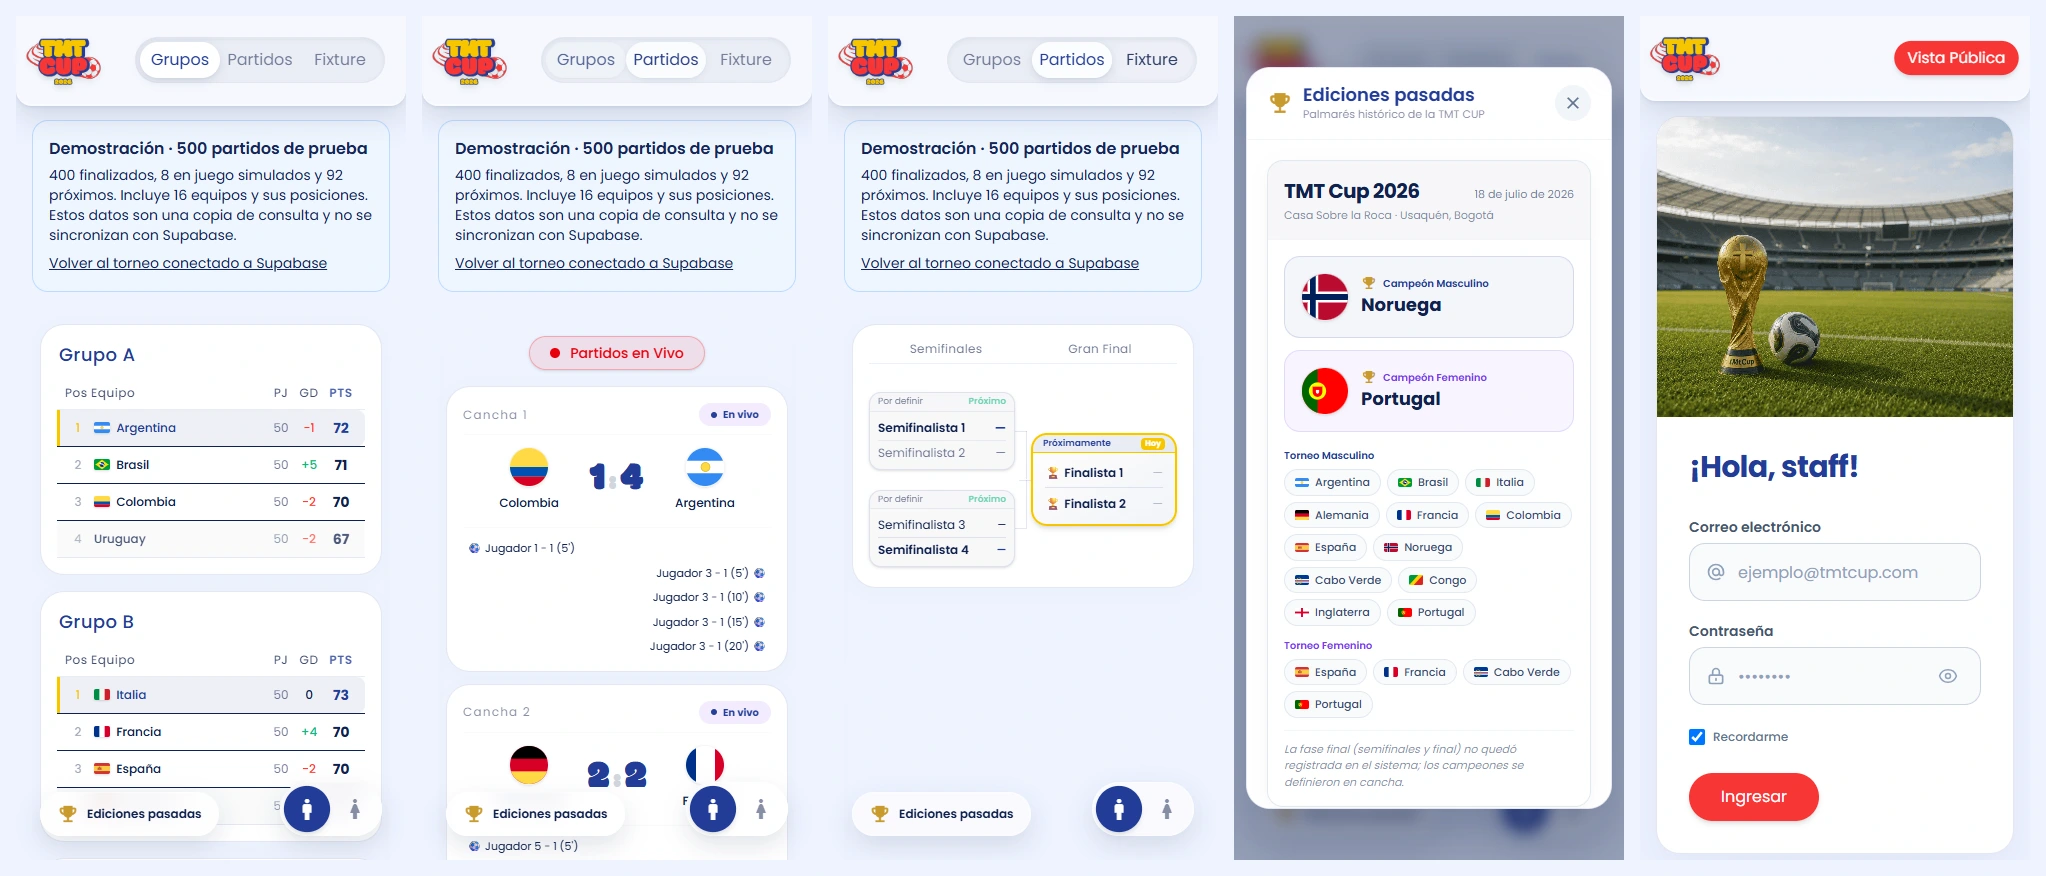
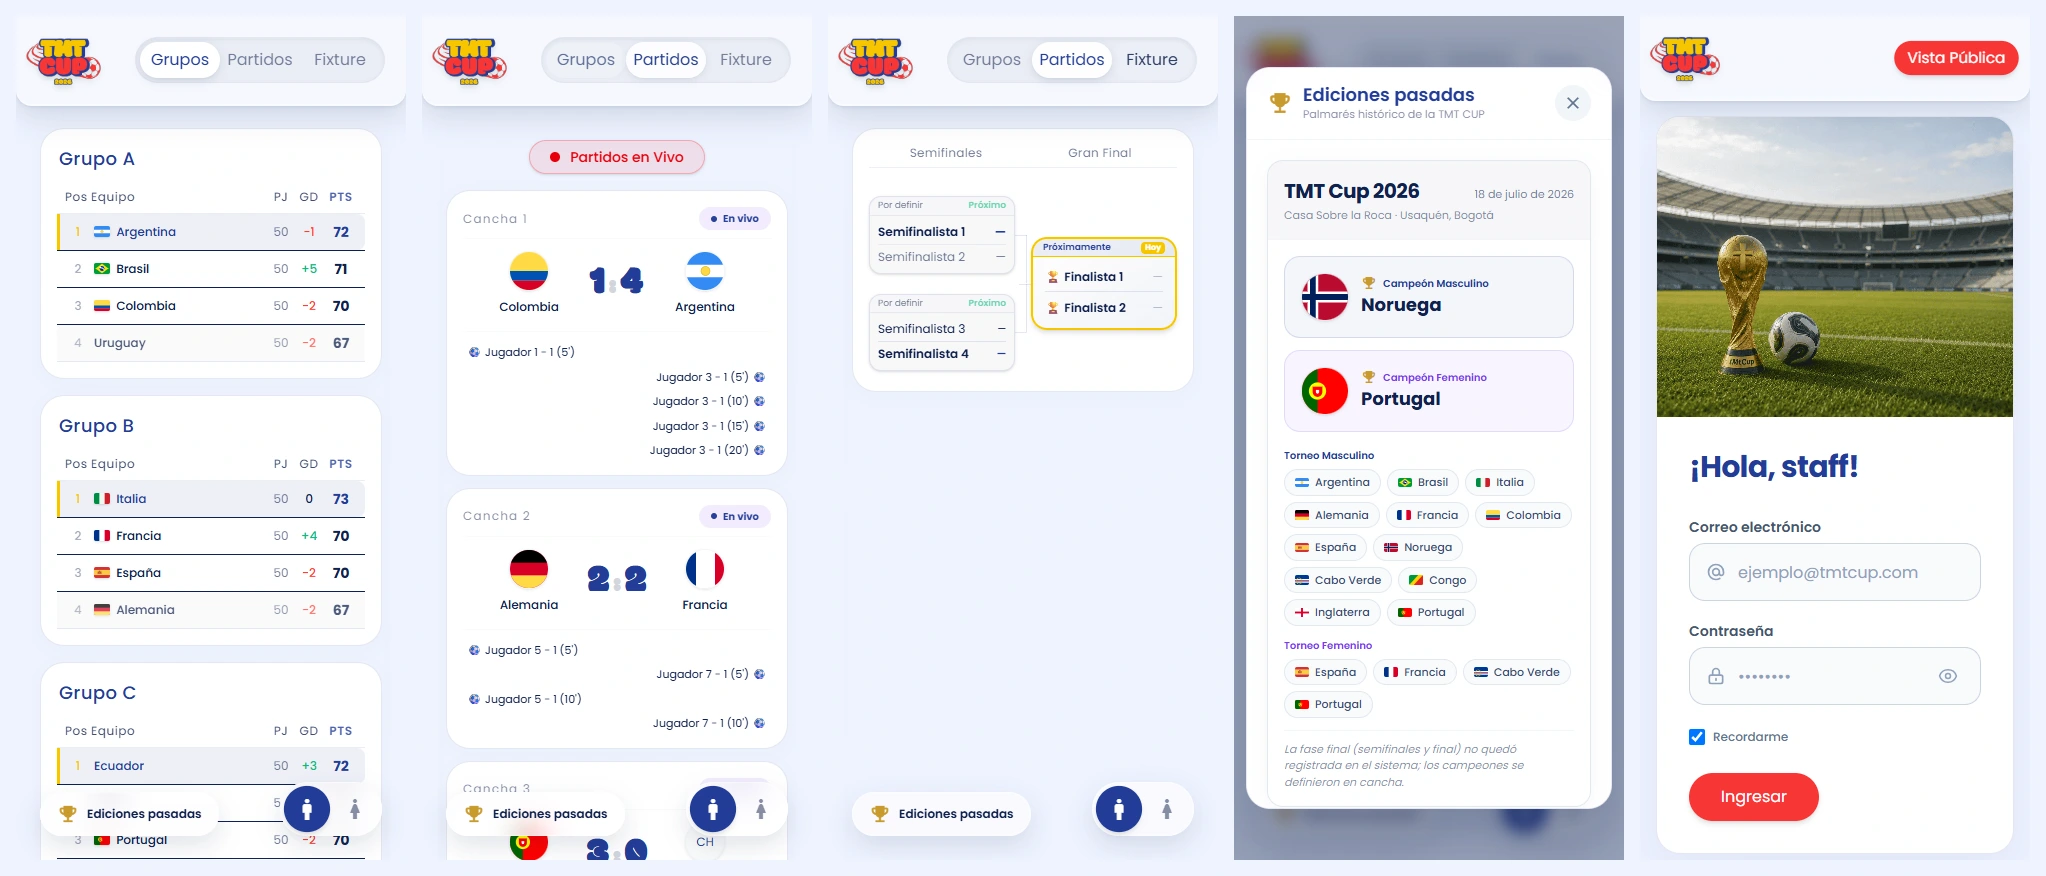
Presenta el paso de Excel al torneo en vivo y muestra las mesas de control

diff --git a/README.md b/README.md
@@ -1,18 +1,17 @@
 # TMT Cup
 
-Plataforma para seguir el torneo en vivo y gestionar partidos, equipos y resultados.
+[Ver el torneo en vivo](https://tmtcup.vercel.app/)
 
-**[Ver el sitio](https://tmtcup.vercel.app/)**
+La TMT Cup se organizaba en Excel. Cada resultado implicaba actualizar la hoja de cálculo para saber cómo quedaba el grupo y quién avanzaba. Con la plataforma, el marcador que se registra en la cancha alimenta la tabla de posiciones y, al terminar la fase de grupos, se definen los cruces de semifinales.
 
-[![Grupos, partidos, fixture, ediciones pasadas y acceso del personal](docs/vistas.webp)](docs/vistas.webp)
+## El torneo desde la tribuna
 
-Construida con Next.js, Tailwind CSS y Supabase.
+El público puede seguir los marcadores en vivo, consultar los próximos partidos y recorrer el cuadro de eliminación. Las ediciones pasadas reúnen los equipos participantes y los campeones de cada categoría.
 
-## Desarrollo
+[![Grupos, partidos, cruces, ediciones pasadas y acceso del personal](docs/vistas.webp)](docs/vistas.webp)
 
-```bash
-pnpm install
-pnpm dev
-```
+## De la cancha a la mesa de control
 
-Configura `SUPABASE_URL`, `SUPABASE_SERVICE_ROLE_KEY`, `NEXT_PUBLIC_SUPABASE_URL` y `NEXT_PUBLIC_SUPABASE_ANON_KEY` en `.env.local`. Consulta [supabase/README.md](supabase/README.md) para preparar la base de datos.
+En cada cancha, el supervisor consulta su agenda, confirma la presencia de los equipos y registra goles, tarjetas e incidentes durante el partido. Desde la mesa de administración, la organización revisa las actas y puede corregir un resultado con un historial de los cambios.
+
+[![Panel de administración a la izquierda y mesa del supervisor a la derecha, con datos de demostración](docs/paneles.webp)](docs/paneles.webp)
